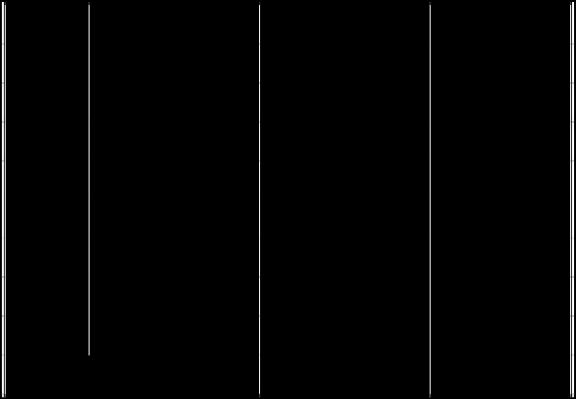
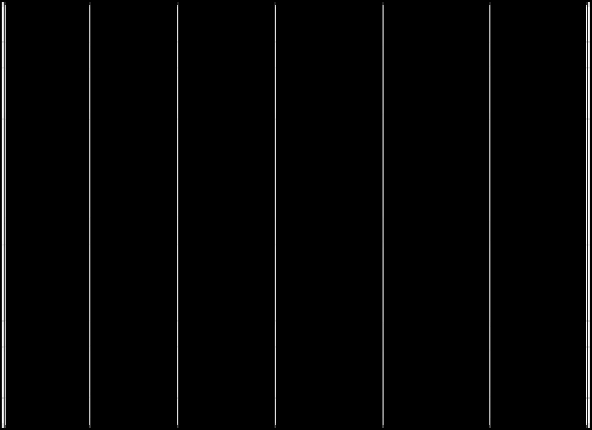
updated

diff --git a/TableDetectionProject/TableDetectionApp/routes/detectTableView.py b/TableDetectionProject/TableDetectionApp/routes/detectTableView.py
@@ -2,7 +2,7 @@ import numpy as np
 import cv2
 import os
 from operator import itemgetter
-from ..service import get_image, crop_image, save_image
+from ..service import get_service
 
 APP_ROOT = os.path.dirname(os.path.abspath(__file__)).split("routes")[0]
 
@@ -58,13 +58,6 @@ def table_exists(crop_image, crop_image_copy):
             required_vertical_lines = []
             print(total_vertical_lines)
 
-            # for i in range(len(total_vertical_lines)):
-            #     point1 = total_vertical_lines[i][0]
-            #     for j in range(i+1, len(total_vertical_lines)):
-            #         point2 = total_vertical_lines[j][0]
-            #         if point2-point1 < 10:
-            #             required_vertical_lines.add(total_vertical_lines[j])
-
             required_vertical_lines.append(total_vertical_lines[0])
             i, j = 0, 0 
             while i < len(total_vertical_lines):
@@ -84,17 +77,19 @@ def table_exists(crop_image, crop_image_copy):
 
             # data = [(1, 293, 1, 2), (156, 291, 156, 4), (248, 290, 248, 3), (350, 291, 350, 4), (454, 291, 454, 4), (569, 290, 569, 6)]
             cnt2 = 0
-            #required_vertical_lines = sorted(required_vertical_lines, key=itemgetter(0))
+            # required_vertical_lines = sorted(required_vertical_lines, key=itemgetter(0))
             print(required_vertical_lines)
             for line in required_vertical_lines:
                 x1, y1, x2, y2 = line
                 cnt2 += 1
                 cv2.line(temp_image, (x1, y1), (x2, y2), (0, 255, 0), 10)
+                cv2.imshow("IMG", temp_image)
+                cv2.waitKey(0)
 
             print("Lines", cnt)
             print("Lines2", cnt2)
-            cv2.imshow("IMG", temp_image)
-            cv2.waitKey(0)
+            # cv2.imshow("IMG", temp_image)
+            # cv2.waitKey(0)
             
             # image_2 = cv2.erode(img_bin, hor_kernel, iterations=3)
             # horizontal_lines = cv2.dilate(image_2, hor_kernel, iterations=3)
@@ -114,13 +109,13 @@ def table_exists(crop_image, crop_image_copy):
 
 
 def detect_table():
-    image_info = get_image()
+    image_info = get_service("GET_IMAGE")
     if image_info[-1] == 200:
         image, image_copy, status = image_info
-        cropped_image, cropped_image_copy = crop_image(image, image_copy)
+        cropped_image, cropped_image_copy = get_service("CROP_IMAGE", image, image_copy)
         table_info = table_exists(cropped_image, cropped_image_copy)
         if table_info is not None:
-            return save_image(cropped_image_copy)
+            return get_service("SAVE_IMAGE", cropped_image_copy)
         else:
             return {"message": "table structure not found."}, 404
     else:

diff --git a/TableDetectionProject/TableDetectionApp/service/saveImageService.py b/TableDetectionProject/TableDetectionApp/service/saveImageService.py
@@ -6,7 +6,10 @@ from .resizeImageService import resize_image
 APP_ROOT = os.path.dirname(os.path.abspath(__file__)).split("routes")[0]
 
 
-def save_image(image):
+def save_image(*args):
+
+    image, = args
+
     image = resize_image(image)
     image_path = os.path.join(APP_ROOT, "static", "image.jpg")
     cv2.imwrite(image_path, image)

diff --git a/TableDetectionProject/TableDetectionApp/service/__init__.py b/TableDetectionProject/TableDetectionApp/service/__init__.py
@@ -1,3 +1,14 @@
 from .getImageService import get_image
 from .cropImageService import crop_image
 from .saveImageService import save_image
+
+
+services = {
+    "GET_IMAGE": get_image,
+    "CROP_IMAGE": crop_image,
+    "SAVE_IMAGE": save_image,
+}
+
+
+def get_service(service, *args):
+    return services.get(service)(*args)

diff --git a/TableDetectionProject/TableDetectionApp/service/resizeImageService.py b/TableDetectionProject/TableDetectionApp/service/resizeImageService.py
@@ -1,7 +1,10 @@
 import cv2
 
 
-def resize_image(image):
+def resize_image(*args):
+
+    image, = args
+
     scale = 81
     height, width, channels = image.shape
     height = int(height*scale/100)

diff --git a/TableDetectionProject/TableDetectionApp/service/cropImageService.py b/TableDetectionProject/TableDetectionApp/service/cropImageService.py
@@ -1,4 +1,6 @@
-def crop_image(image, image_copy):
+def crop_image(*args):
+
+    image, image_copy = args
 
     height, width = image.shape
 
